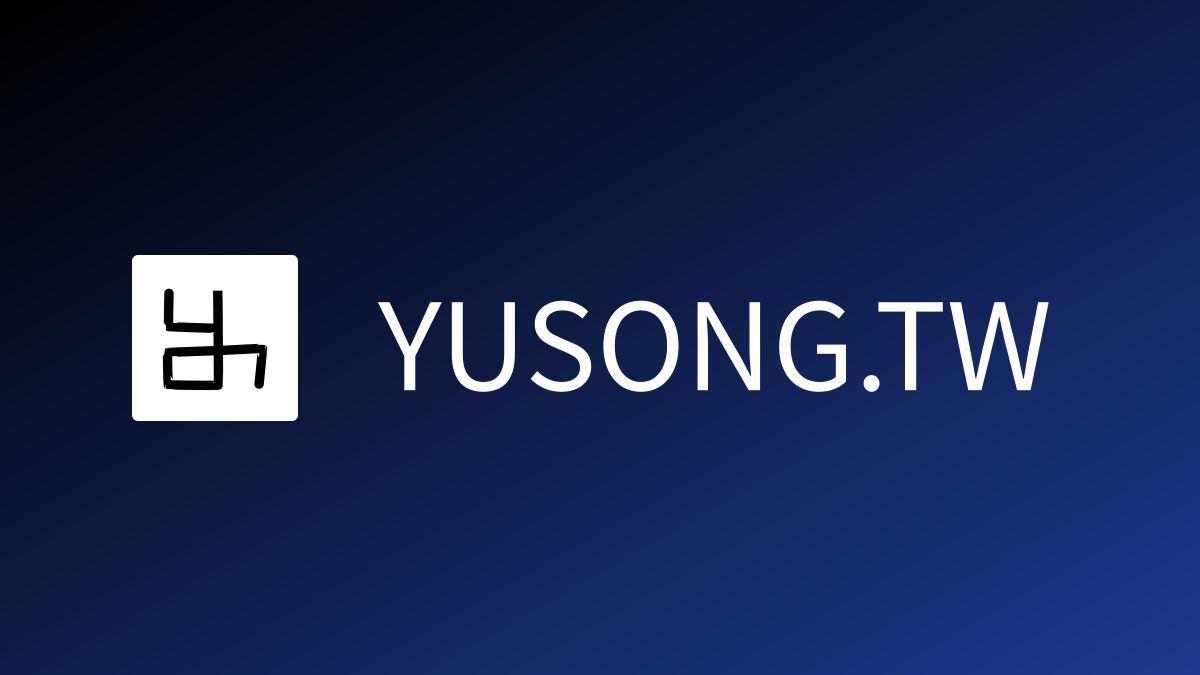
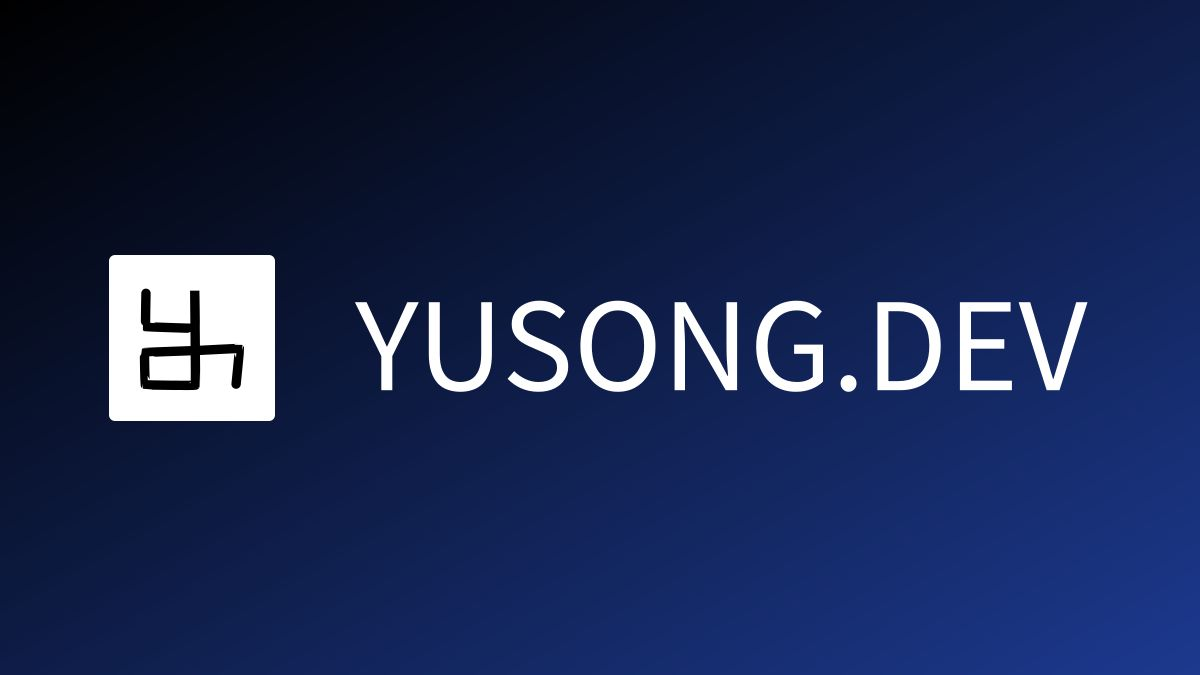
chore: move to yusong.dev (#532)
* Update README.md

* Update CNAME

* Update sw.js

* Update pwa.config.js

* Update index.meta.js

* Update getFileUrl.js

* Update package.json

* Update index.js

* Update wrangler.toml

* Update index.jsx

* Update index.html

* Update generateOgImageData.jsx

* Update index.meta.js

* Update wrangler.toml

* Update index.meta.js

* Update index.meta.js

* Update ErrorElement.jsx

* Update index.jsx

* Update index.jsx

* Update index.jsx

* Update cdn-sync.yml

* chore: fix code style issues with linters

* chore: automatically generate images

* Update getFileUrl.js

---------

Changed region(s): [[0.2775, 0.4356, 0.925, 0.5911], [0.0925, 0.3733, 0.2467, 0.6222]]

diff --git a/src/components/Article/index.jsx b/src/components/Article/index.jsx
@@ -155,7 +155,7 @@ const useArticleHtml = (html) => {
   return { sections: articleSections, articleHtml }
 }
 
-const DEFAULT_TITLE = 'YUSONG.TW'
+const DEFAULT_TITLE = 'YUSONG.DEV'
 
 const Article = (props) => {
   const { filePath, markdown } = props
@@ -254,7 +254,7 @@ const Article = (props) => {
             })}
           </div>
           <a
-            href={`https://github.com/sky172839465/yusong.tw/blob/main/${filePath}`}
+            href={`https://github.com/sky172839465/yusong.dev/blob/main/${filePath}`}
             target='_blank'
             className={count >= 10 ? 'inline' : 'hidden'}
           >

diff --git a/cloudflare-workers/seo/src/index.js b/cloudflare-workers/seo/src/index.js
@@ -2,10 +2,10 @@ import { get, keyBy } from 'lodash-es'
 
 import routes from './routes.json'
 
-const CDN_HOST = 'https://cdn.yusong.tw'
+const CDN_HOST = 'https://cdn.yusong.dev'
 const AUTHOR = 'YuSong Hsu'
 const ACCOUNT = 'sky172839465'
-const BLOG_HOST = 'yusong.tw'
+const BLOG_HOST = 'yusong.dev'
 const TITLE = BLOG_HOST.toUpperCase()
 const ROUTE_MAP = keyBy(
   routes.map(({ file, ...item }) => {

diff --git a/scripts/noJsArticle/index.html b/scripts/noJsArticle/index.html
@@ -20,7 +20,7 @@
           <div class="rounded-md border-black bg-white p-[2px]">
             <img class="h-8 w-auto rounded-sm" width="32" height="32" src="/favicon.svg" alt="Site Logo">
           </div>
-          <span class="font-bold">YUSONG.TW</span>
+          <span class="font-bold">YUSONG.DEV</span>
         </a>
         <div class="flex items-center space-x-4">
           <a

diff --git a/src/components/SkeletonHome/index.jsx b/src/components/SkeletonHome/index.jsx
@@ -6,7 +6,7 @@ const SkeletonHome = () => {
       <div className='text-center'>
         <div className='max-w-md space-y-4'>
           <h1 className='text-5xl font-bold'>
-            YUSONG.TW
+            YUSONG.DEV
           </h1>
           <div className='flex items-center justify-center space-x-2 text-xl'>
             {['Loading', '...'].map((word, index) => (

diff --git a/pwa.config.js b/pwa.config.js
@@ -8,8 +8,8 @@ export default VitePWA({
     globPatterns: ['**/*.{js,css,html,png,svg,ico,json,woff2}'] // Cache only necessary files
   },
   manifest: {
-    name: 'yusong.tw',
-    short_name: 'yusong.tw',
+    name: 'yusong.dev',
+    short_name: 'yusong.dev',
     description: 'This is Yusong\'s blog',
     theme_color: '#ffffff',
     display: 'standalone',

diff --git a/src/components/Comments/index.jsx b/src/components/Comments/index.jsx
@@ -58,7 +58,7 @@ const Comments = () => {
           <FadeIn className='[&_*]:select-text'>
             <LazyGiscus
               id='comments'
-              repo='sky172839465/yusong.tw'
+              repo='sky172839465/yusong.dev'
               repoId='R_kgDONva8Tw'
               category='Announcements'
               categoryId='DIC_kwDONva8T84Cmdvk'

diff --git a/public/sw.js b/public/sw.js
@@ -30,7 +30,7 @@ precacheAndRoute(self.__WB_MANIFEST)
 const GITHUB_ASSETS_CACHE_NAME = 'github-assets'
 registerRoute(
   ({ url }) => (
-    url.href.startsWith('https://cdn.yusong.tw') ||
+    url.href.startsWith('https://cdn.yusong.dev') ||
     url.href.startsWith('https://github.githubassets.com/images')
   ),
   new StaleWhileRevalidate({

diff --git a/scripts/generateOgImageData.jsx b/scripts/generateOgImageData.jsx
@@ -25,7 +25,7 @@ const modifiedRoutes = IS_MODIFIED_FILES_EXIST
 const favicon = fs.readFileSync('public/favicon.svg', 'utf-8').replace(/>\s+</g, '><')
 console.log('Modified routes', modifiedRoutes)
 
-const HOMEPAGE_TITLE = 'YUSONG.TW'
+const HOMEPAGE_TITLE = 'YUSONG.DEV'
 
 const getOgImgComponent = (route) => {
   const { data = {} } = route

diff --git a/src/utils/getFileUrl.js b/src/utils/getFileUrl.js
@@ -1,6 +1,6 @@
 const getFileUrl = (relativeFile) => {
   if (import.meta.env.PROD) {
-    return `https://cdn.yusong.tw${relativeFile}?v=20250222`
+    return `https://cdn.yusong.dev${relativeFile}?v=20250222`
   }
 
   return new URL(relativeFile, import.meta.url).href

diff --git a/src/pages/en/search/index.meta.js b/src/pages/en/search/index.meta.js
@@ -1,5 +1,5 @@
 const meta = {
   title: 'Site search',
-  description: 'Searching YUSONG.TW with title, description or tags'
+  description: 'Searching YUSONG.DEV with title, description or tags'
 }
 export default meta

diff --git a/src/components/Router/ErrorElement.jsx b/src/components/Router/ErrorElement.jsx
@@ -27,7 +27,7 @@ const i18nMapping = {
   }
 }
 
-const DEFAULT_TITLE = 'YUSONG.TW'
+const DEFAULT_TITLE = 'YUSONG.DEV'
 
 const ErrorElement = () => {
   const { label, isZhTw, lang } = useI18N(i18nMapping)

diff --git a/src/pages/search/index.meta.js b/src/pages/search/index.meta.js
@@ -1,5 +1,5 @@
 const meta = {
   title: '全站搜尋',
-  description: '以標題、描述或標籤搜尋 YUSONG.TW'
+  description: '以標題、描述或標籤搜尋 YUSONG.DEV'
 }
 export default meta
